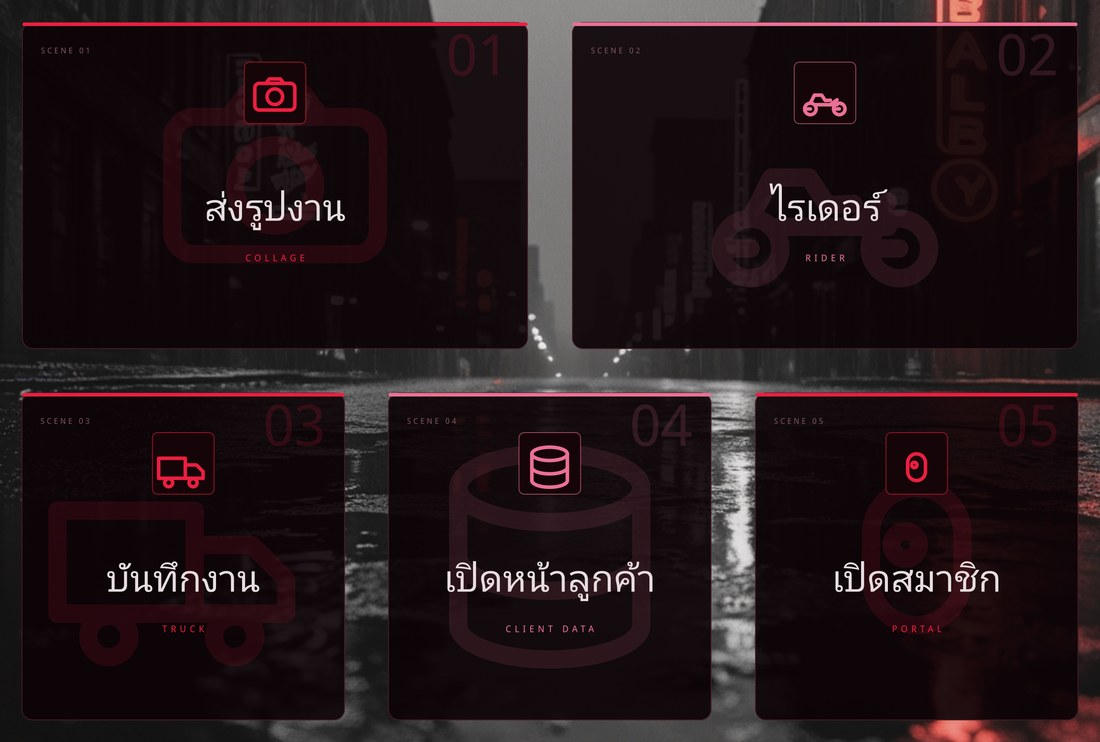
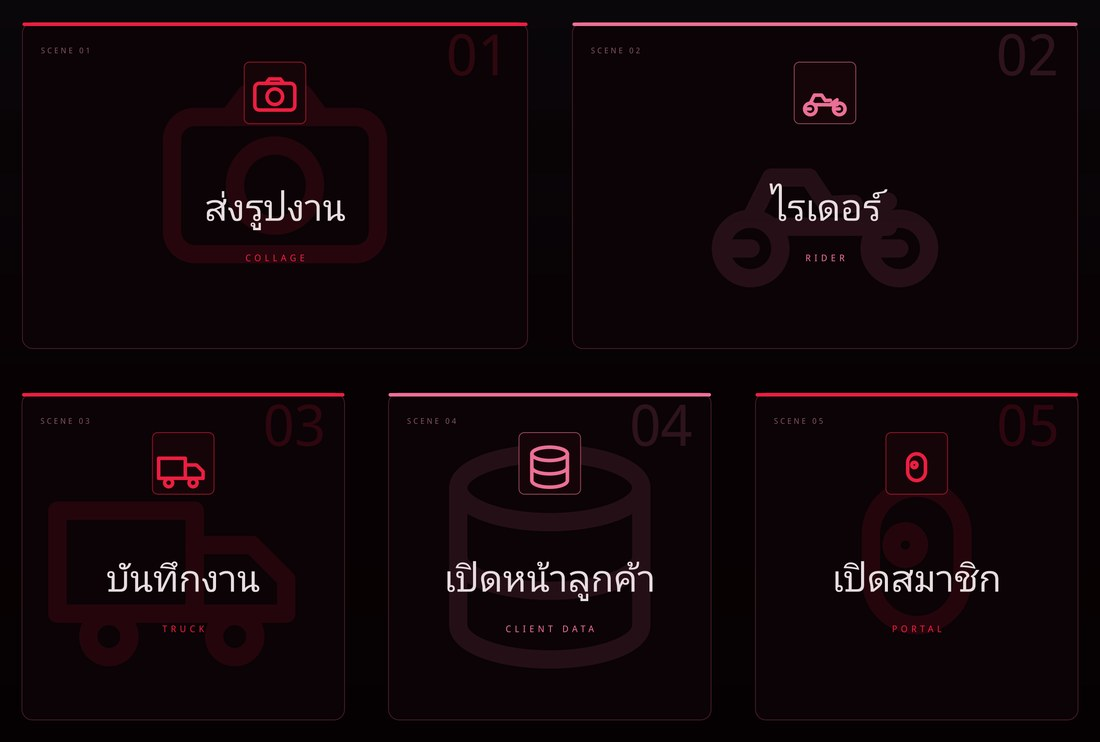
Add STACK//FRAME rich menu designs
- STACK LIGHT: Warm parchment (#F6F4F0) with terracotta accent (#B8502F)
- STACK DARK: Deep ink (#151311) with coral accent (#E8845F)
- Consistent with STACK//FRAME web design system
- Noto Sans Thai typography, 28px border radius
- Deployed STACK LIGHT to LINE as default rich menu

Added to richmenu-designs.cjs with full preview generation.
Both designs follow STACK//FRAME token system and maintain
backward compatibility with existing 11 designs.

Changed region(s): [[0.0, 0.0, 1.0, 1.0]]

diff --git a/frontend/previews/richmenu/index.html b/frontend/previews/richmenu/index.html
@@ -1,5 +1,5 @@
 <!doctype html><html lang="th"><head><meta charset="utf-8"><meta name="viewport" content="width=device-width,initial-scale=1">
-<title>Rich menu redesign · 10 concepts</title>
+<title>Rich menu redesign · 13 concepts</title>
 <style>
   :root{--bg:#0d0d10;--ink:#f4f4f0;--dim:#a1a1a8;--line:#2a2a32;--acc:#ffce3a}
   *{box-sizing:border-box}body{margin:0;background:var(--bg);color:var(--ink);font:15px/1.5 system-ui,-apple-system,'Segoe UI',Roboto,sans-serif}
@@ -15,7 +15,7 @@
   footer code{background:#1e2129;padding:2px 6px;border-radius:6px}
 </style></head><body>
 <header><h1>Rich menu redesign · STACK<span style="color:var(--acc)">//</span>FRAME</h1>
-<p>10 concepts, 2500×1686, dark backgrounds, 2 rows (top 2 / bottom 3) · ส่งรูปงาน LIFF · ไรเดอร์ rider.ezzytransporter.com · บันทึกงาน truck · เปิดหน้าลูกค้า data · เปิดสมาชิก me.mcky.space</p></header>
+<p>13 concepts, 2500×1686, dark backgrounds, 2 rows (top 2 / bottom 3) · ส่งรูปงาน LIFF · ไรเดอร์ rider.ezzytransporter.com · บันทึกงาน truck · เปิดหน้าลูกค้า data · เปิดสมาชิก me.mcky.space</p></header>
 <div class="grid">
 <div class="card"><img src="b-neo-web.jpg" alt="NEO GRID">
 <div class="meta"><b>NEO GRID</b><span>NEON CYAN x MAGENTA</span></div>
@@ -37,7 +37,13 @@
 <div class="meta"><b>ROYAL GOLD</b><span>BRIGHT GOLD / LUXURY</span></div>
 <p class="note">Full size: <a href="i-gold.png" style="color:#7db8ff">i-gold.png</a></p></div><div class="card"><img src="j-bright-web.jpg" alt="BRIGHT BLOCKS">
 <div class="meta"><b>BRIGHT BLOCKS</b><span>VIVID COLOR / FULL BLEED</span></div>
-<p class="note">Full size: <a href="j-bright.png" style="color:#7db8ff">j-bright.png</a></p></div>
+<p class="note">Full size: <a href="j-bright.png" style="color:#7db8ff">j-bright.png</a></p></div><div class="card"><img src="k-web-web.jpg" alt="WEB MATCH">
+<div class="meta"><b>WEB MATCH</b><span>STACK//FRAME / LIME ACTION GRID</span></div>
+<p class="note">Full size: <a href="k-web.png" style="color:#7db8ff">k-web.png</a></p></div><div class="card"><img src="l-stack-light-web.jpg" alt="STACK LIGHT">
+<div class="meta"><b>STACK LIGHT</b><span>WARM PARCHMENT / TERRACOTTA</span></div>
+<p class="note">Full size: <a href="l-stack-light.png" style="color:#7db8ff">l-stack-light.png</a></p></div><div class="card"><img src="m-stack-dark-web.jpg" alt="STACK DARK">
+<div class="meta"><b>STACK DARK</b><span>INK SURFACE / CORAL ACCENT</span></div>
+<p class="note">Full size: <a href="m-stack-dark.png" style="color:#7db8ff">m-stack-dark.png</a></p></div>
 </div>
 <footer>Render: <code>NODE_PATH=backend/node_modules:frontend/node_modules node scripts/richmenu-designs.cjs</code> · Deploy a pick: <code>--deploy i-gold</code></footer>
 </body></html>
